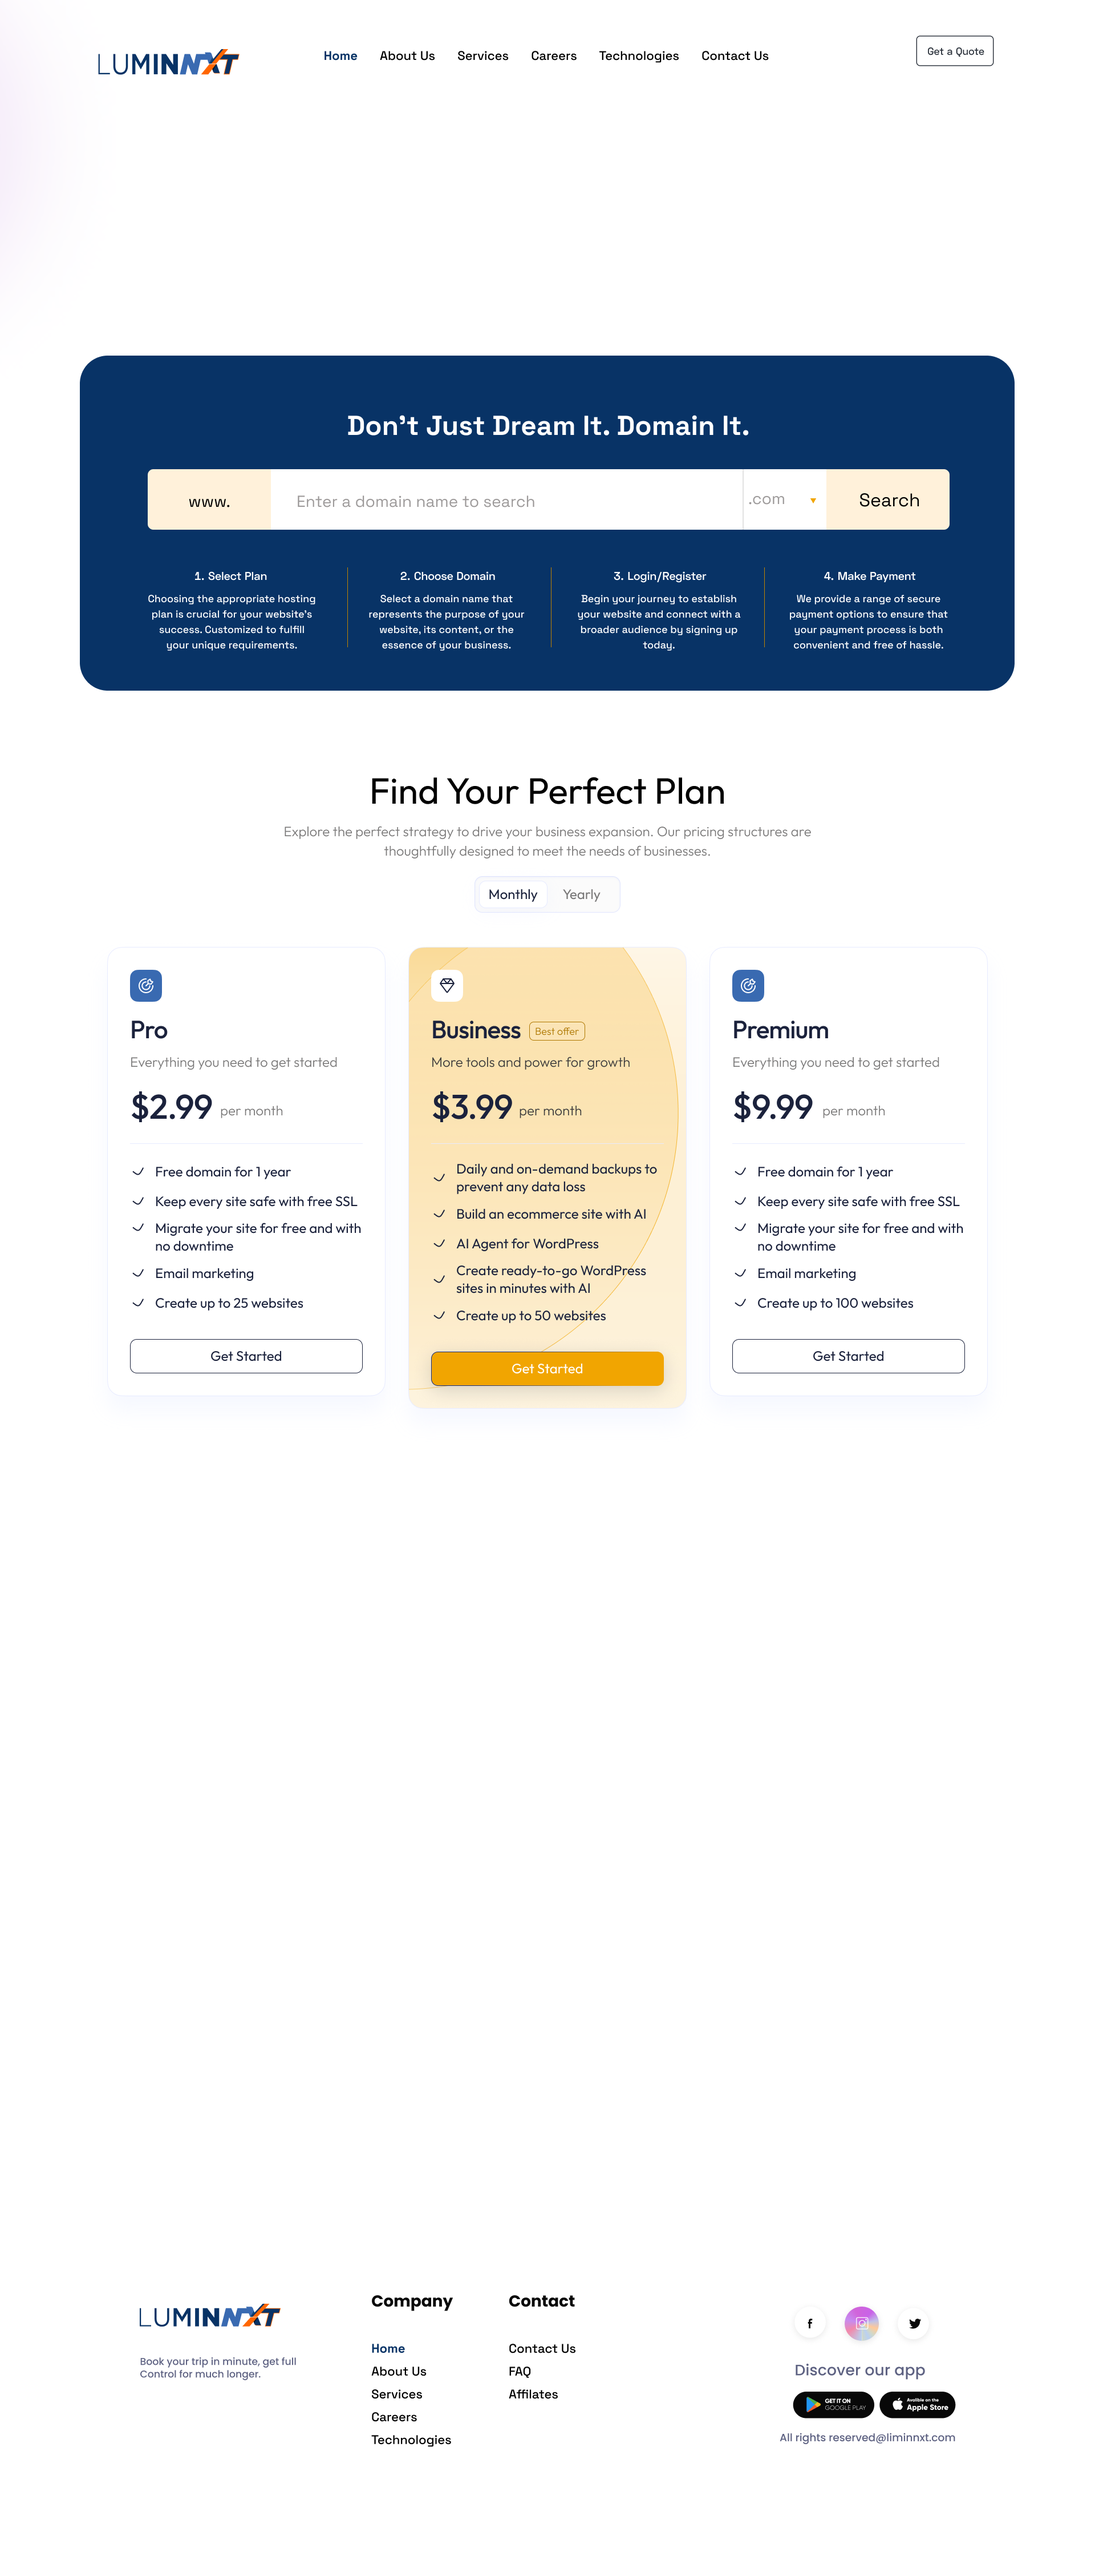
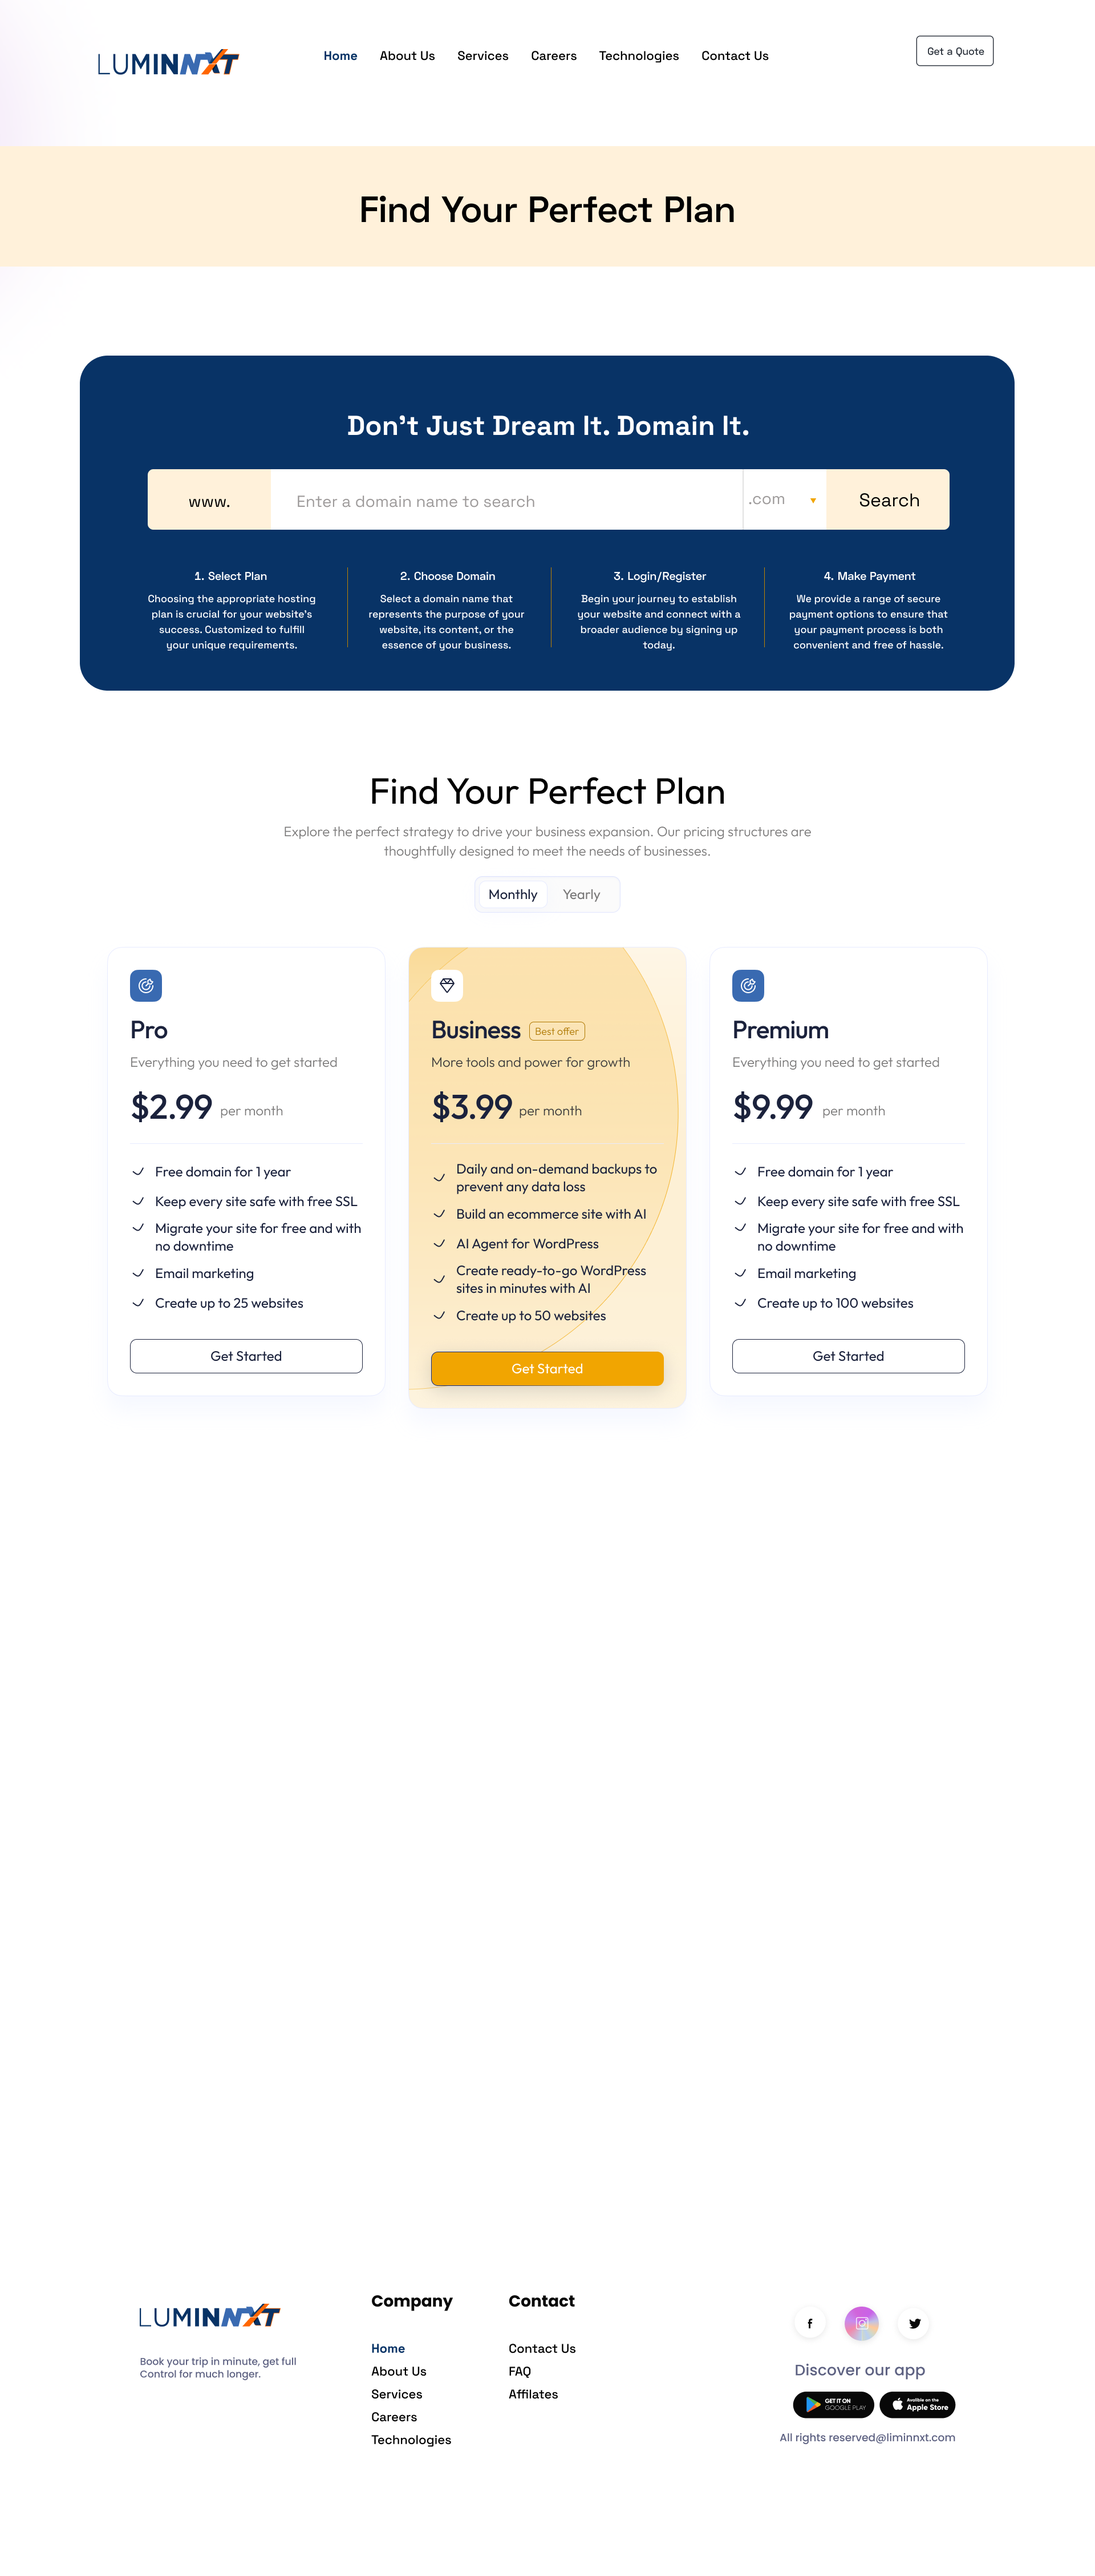
LuminNxT_IndexPageCorrections

Changed region(s): [[0.0, 0.0312, 1.0, 0.125]]

diff --git a/LuminNxT/index.html b/LuminNxT/index.html
@@ -32,7 +32,7 @@
 
   <!-- Hero Banner -->
   <section class="hero-banner">
-    <h1>About Us</h1>
+    <h1>Find Your Perfect Plan</h1>
   </section>
 
   <!-- Domain Search Section -->
